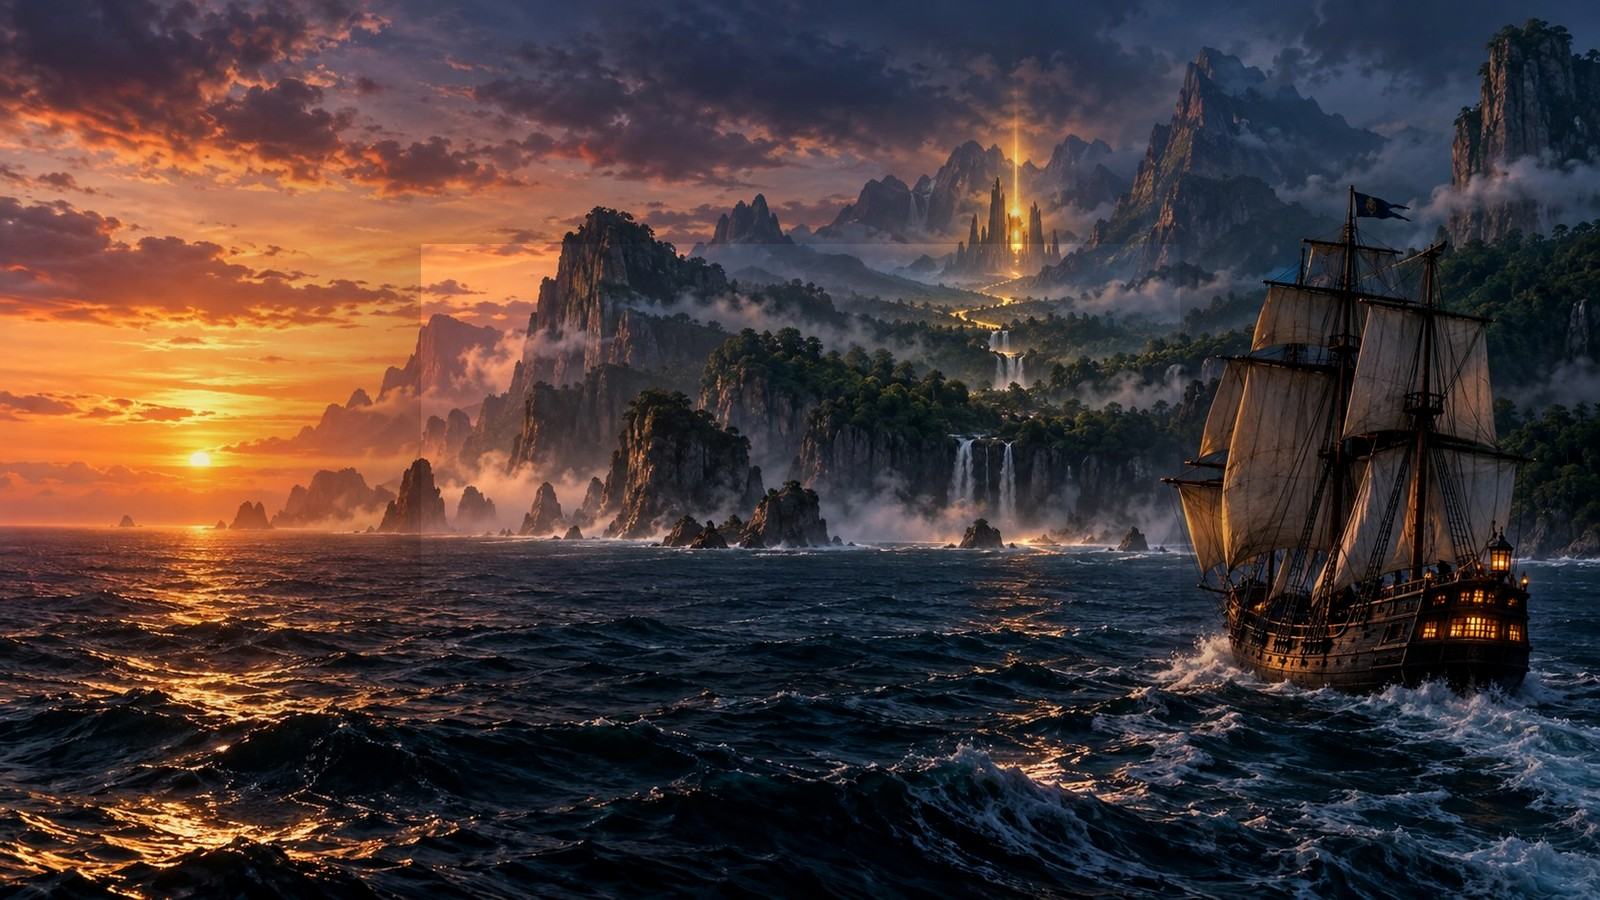
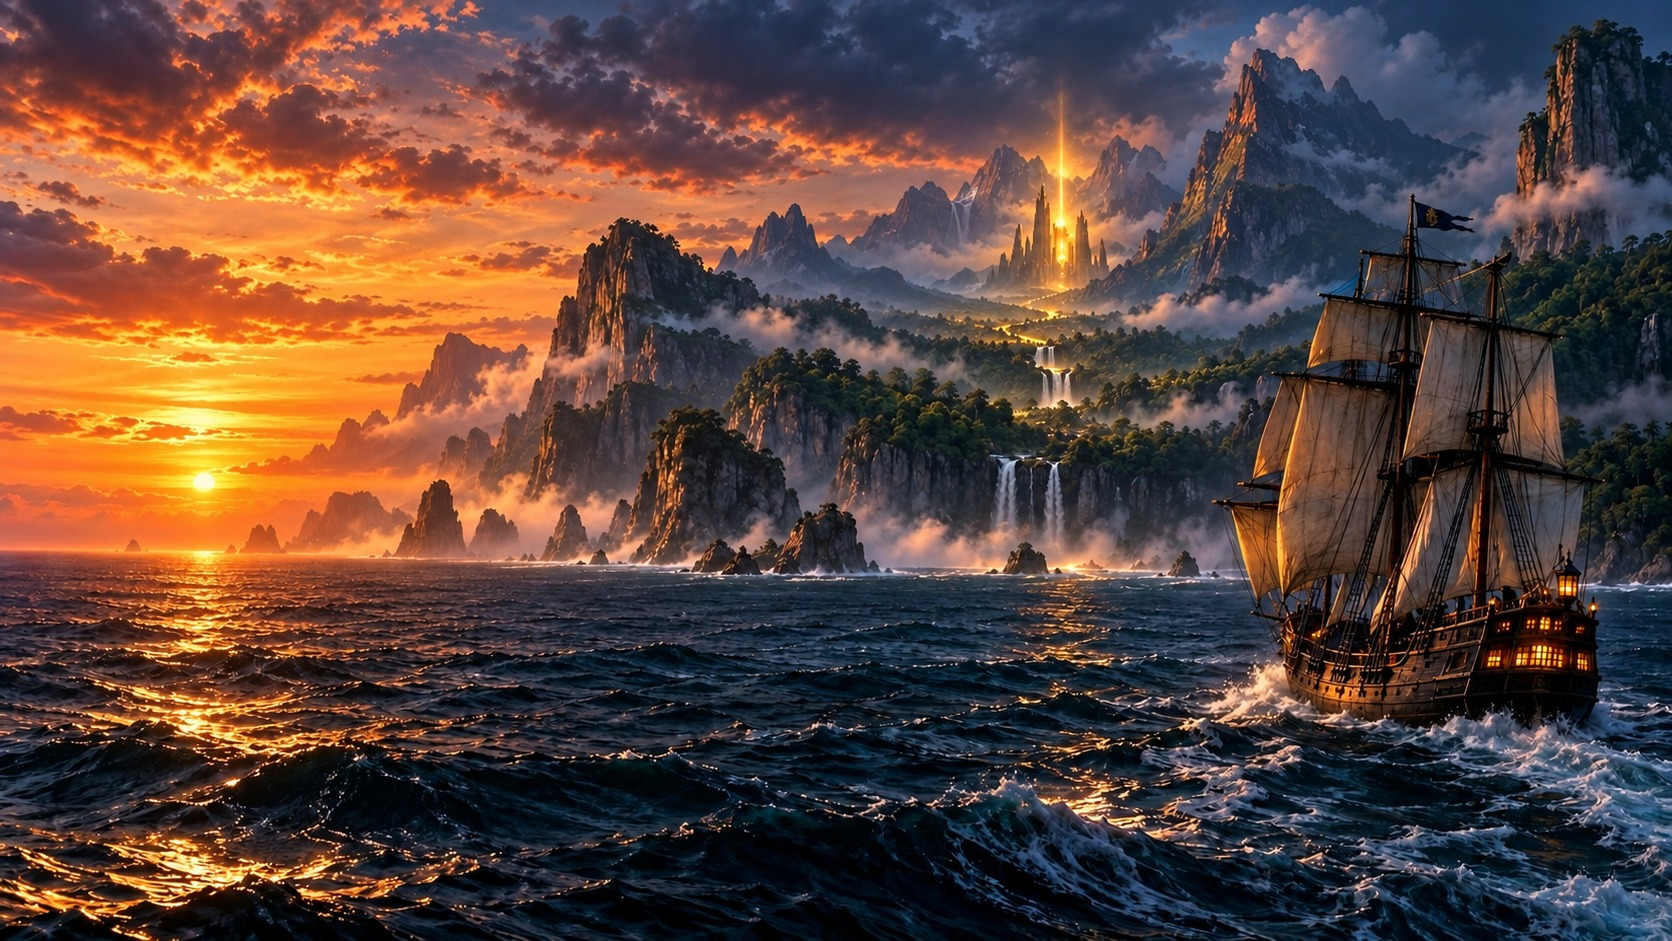
Add files via upload

diff --git a/V21_7_ART_BOUNDARY_REBUILD.md b/V21_7_ART_BOUNDARY_REBUILD.md
@@ -1,0 +1,13 @@
+# V21.7 Art Boundary Rebuild
+
+This rebuild replaces several opening and storm artworks that showed a visible vertical dark boundary / compositing seam.
+
+## Replaced assets
+- public/assets/v21_landing.jpg
+- public/assets/lost_home.jpg
+- public/assets/lost_opening_v6.jpg
+- public/assets/storm.jpg
+- public/assets/storm_v6.jpg
+
+## Notes
+These replacements preserve the same file names so existing scene mappings continue to work. Cache/version values were also bumped to help browsers fetch the new artwork.
